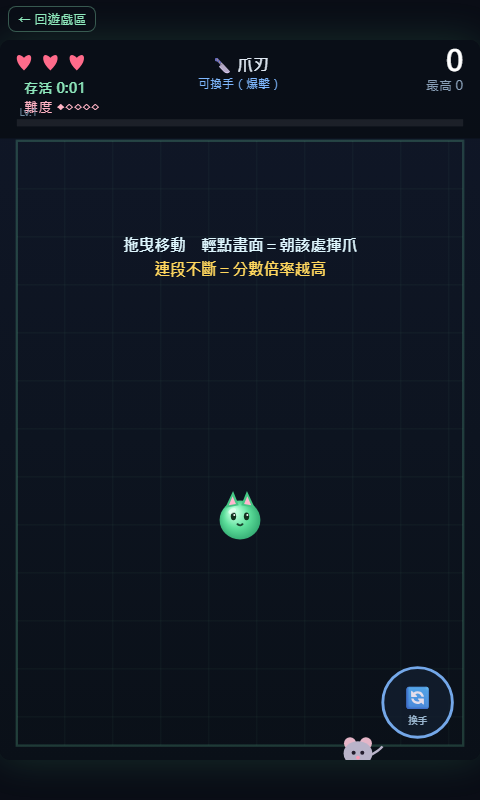
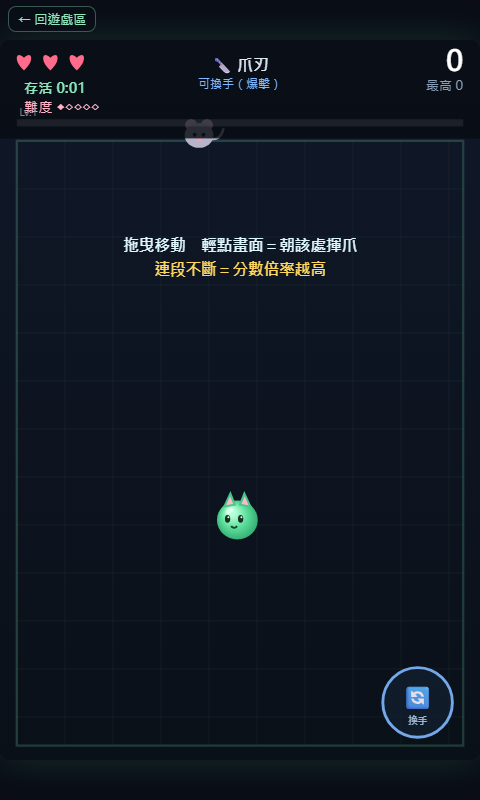
🔧 修復《喵刃連段祭》：[玩家留言] 還不錯 但揮爪動作太不明顯 很容易撞到 也沒什麼優勢 ➜ 在《喵刃

Changed region(s): [[0.4375, 0.5938, 0.5625, 0.6875], [0.375, 0.125, 0.4688, 0.1875], [0.7188, 0.9062, 0.7812, 0.9688]]

diff --git a/games/2026-08-07-001/index.html b/games/2026-08-07-001/index.html
@@ -276,7 +276,8 @@ function attack(){
     P.lunge=0.12;
     P.squash=1;
     var rg=P.st.range*(isCrit?1.25:1), ar=P.st.arc*(isCrit?1.25:1);
-    slashes.push({a:P.face,r:rg,arc:ar,l:0.19,m:0.19,tier:comboTier(),crit:isCrit});
+    // hi:1 ＝ 揮爪特效：爪痕軌跡＋命中判定範圍高亮（r/arc 與下方命中判定共用同一組數值，判定框不變）
+    slashes.push({a:P.face,r:rg,arc:ar,l:0.19,m:0.19,tier:comboTier(),crit:isCrit,hi:1});
     S.slash(combo);
     var got=false;
     for(var i=0;i<enemies.length;i++){
@@ -292,6 +293,7 @@ function attack(){
         damage(boss,P.st.mdmg*mulC,isCrit,bx/(bd||1),by/(bd||1)); got=true;
       }
     }
+    if(got) hitStop=Math.max(hitStop,0.05);   // 命中回饋 hit-stop（擊中音效由 damage 內 S.hit 播放）
     if(isCrit){ S.crit(); shake(7,0.22); flash('rgba(255,225,120,0.30)',0.12); hitStop=0.06;
                 ftext(P.x,P.y-34,'換手爆擊！','#ffd75e',17); P.critT=0; }
     if(!got){ /* 揮空也有手感，不加連段 */ }
@@ -299,7 +301,7 @@ function attack(){
     P.atkCd=P.st.cd*1.15;
     P.squash=0.7;
     S.slash(combo);
-    slashes.push({a:P.face,r:26,arc:0.9,l:0.12,m:0.12,tier:0,crit:isCrit});
+    slashes.push({a:P.face,r:26,arc:0.9,l:0.12,m:0.12,tier:0,crit:isCrit,hi:0});
     pbul.push({x:P.x+Math.cos(P.face)*16,y:P.y+Math.sin(P.face)*16,
                vx:Math.cos(P.face)*P.st.bspd,vy:Math.sin(P.face)*P.st.bspd,
                r:7,dmg:P.st.rdmg*mulC,pierce:P.st.pierce,crit:isCrit,hitIds:[],sp:0});
@@ -846,6 +848,15 @@ function drawSlashes(){
   for(var i=0;i<slashes.length;i++){
     var s=slashes[i], k=s.l/s.m;
     ctx.save(); ctx.translate(P.x,P.y);
+    // 命中判定範圍高亮：直接用判定同一組 s.r / s.arc 畫扇形（判定框本身不變）
+    if(s.hi){
+      ctx.fillStyle=s.crit?'rgba(255,220,120,'+(k*0.22)+')':'rgba(160,255,220,'+(k*0.18)+')';
+      ctx.beginPath(); ctx.moveTo(0,0);
+      ctx.arc(0,0,s.r,s.a-s.arc/2,s.a+s.arc/2);
+      ctx.closePath(); ctx.fill();
+      ctx.strokeStyle=s.crit?'rgba(255,220,120,'+(k*0.7)+')':'rgba(190,255,230,'+(k*0.55)+')';
+      ctx.lineWidth=1.5; ctx.stroke();
+    }
     var lay=1+s.tier;
     for(var j=0;j<lay;j++){
       var rr=s.r*(0.62+j*0.22)*(1.15-k*0.15);
@@ -857,7 +868,8 @@ function drawSlashes(){
       ctx.beginPath(); ctx.arc(0,0,rr,s.a-s.arc/2,s.a+s.arc/2); ctx.stroke();
     }
     // 爪痕線
-    ctx.strokeStyle='rgba(255,255,255,'+(k*0.6)+')'; ctx.lineWidth=2;
+    ctx.strokeStyle='rgba(255,255,255,'+(k*(s.hi?0.9:0.6))+')';
+    ctx.lineWidth=s.hi?3:2; ctx.lineCap='round';
     for(var m=-1;m<=1;m++){
       var a=s.a+m*s.arc*0.3;
       ctx.beginPath();

diff --git a/games.js b/games.js
@@ -956,7 +956,30 @@ const GAMES = [
     "genre": "動作（連段格鬥／閃避戰鬥）",
     "date": "2026-08-07",
     "desc": "點哪斬哪，連段不斷讓分數翻倍的史萊姆貓鼠潮戰",
-    "ai_score": 39
+    "ai_score": 39,
+    "bugs": [
+      {
+        "date": "2026-08-15",
+        "note": "[玩家留言] 還不錯 但揮爪動作太不明顯 很容易撞到 也沒什麼優勢 ➜ 在《喵刃連段祭》(id=2026-08-07-001) 揮爪動作加入明顯攻擊特效：揮爪瞬間顯示爪痕軌跡與命中判定範圍高亮（維持現有判定框不變），並在命中敵人時加入 hit-stop 約0.05秒與擊中音效，讓攻擊回饋清楚可辨。",
+        "status": "fixed",
+        "source": "web",
+        "fixed_at": "2026-08-15"
+      },
+      {
+        "date": "2026-08-15",
+        "note": "[玩家留言] 還不錯 但揮爪動作太不明顯 很容易撞到 也沒什麼優勢 ➜ 同列30：於揮爪加入爪痕軌跡特效、命中範圍高亮、hit-stop 與音效（與列30為同一問題，合併為單一工單執行，避免重複修改）。",
+        "status": "fixed",
+        "source": "web",
+        "fixed_at": "2026-08-15"
+      }
+    ],
+    "updated_at": "2026-08-15",
+    "changelog": [
+      {
+        "date": "2026-08-15",
+        "summary": "揮爪動作加特效跟震動感，打到人一看就知道，不會再傻傻撞上去了！"
+      }
+    ]
   },
   {
     "id": "2026-08-08-001",

diff --git a/index.html b/index.html
@@ -213,7 +213,7 @@
 
 <script src="sc_config.js"></script>
 <script src="stats.js"></script>
-<script src="games.js?v=9dabd005"></script>
+<script src="games.js?v=713bb9a5"></script>
 <script>
 const appStatus = document.getElementById("app-status");
 const app = document.getElementById("app");

diff --git a/factory/knowledge/learnings.md b/factory/knowledge/learnings.md
@@ -168,3 +168,13 @@
 - 2026-08-09 檢討會：2026-08-09 檢討會：med_session_sec 已被證實是髒指標——08-02-001 掛機式 983s 與新作 0s 同時存在，且 plays_reported 幾乎全 0；唯一可信的牽引力訊號是「同裝置重複回訪次數＋plays_reported＋web 留言」三者同時成立（目前只有喵骰連鎖陣 15 opens/7 devices/return 0.43/web 7 與喵格拆彈夜 return 0.67/plays 7 過關），排序與押注只准用這三項。
 - 2026-08-09 檢討會：2026-08-09 檢討會：新作 DOA 的根因鏈已完整——受眾池 28 台裝置封頂＋大廳零導流＝任何新題材期望值為 0，而「玩家留言→修復→web 7」是唯一被證實有效的價值鏈；因此下一款不該是新題材，而是把《喵骰連鎖陣》（唯一三項全過的款）做成有關卡目標、每日挑戰種子、連鎖里程碑的旗艦版，並以它作為大廳首屏唯一入口，用單款深度換回訪與留言。
 - 2026-08-12 AI 自評《貓客滿樓》36/50：入門與目標感做得紮實(免費首店+持續HUD)，但貓客耐性不可視加上節奏偏短、策略單一，讓中後期張力和深度打了折扣。；待改進：貓客沒有耐性視覺提示(頭上讀秒/漸變色)，玩家只能等發飆後才知道連擊要斷，削弱即時判斷與緊張感；整局僅100秒，還不到2分鐘就結束，加上連擊+升級雪球效應，後段收入暴衝讓尖峰時刻刺激感被稀釋，建議拉長節奏或加陡後期難度；最優策略永遠是「買最便宜空位、升級最貴已開店鋪」，缺乏分店差異化或隨機事件，多局後策略同質化降低耐玩度
+- 2026-08-12 檢討會：08-12-001《貓客滿樓》再度證明「會議凍結令＋blocker 檢查」都還沒落進程式碼——它在凍結期出貨、自評第一條（耐性不可視＝核心體驗缺陷）屬阻擋項卻照樣上架、上線後 3 opens/med 0s 完全複製 DOA 模式；08-09 說好的 factory 硬性 gate（無大廳交付檔即拒發新遊戲 ID）本週必須先交這個 gate 本身，不是再交一款遊戲。
+- 2026-08-12 檢討會：全站數據已進入「凍結態」：一週內 arcade 僅 228→231、喵骰連鎖陣 15 opens 零成長、玩家留言斷料達 19 天（最後一筆 07-24）——現在不是押注問題而是「量測管道死亡」問題；本週唯一可驗收交付＝大廳首屏直開喵骰＋一鍵評分入口實際上線，且驗收標準是「數據位移」（喵骰 opens 上升、新留言 ≥1），不是交付檔存在。
+- 2026-08-12 檢討會：依 08-09 訂的 48 小時自動下架規則，08-05～08-09 五款（全部 1 open/med 0s）加上 08-12-001 應立即執行下架清理——留著只會稀釋大廳曝光與作品清單可信度，53 款裡真正該活著的不到 10 款。
+- 2026-08-12 檢討會：《喵骰連鎖陣》旗艦深化（關卡目標＋每日挑戰種子＋連鎖里程碑）連續兩週零動工，而它仍是唯一同時通過「同裝置回訪 0.43＋plays 4＋web 7」三項可信訊號的作品；產能順位不變＝gate 腳本 → 大廳＋評分入口 → 喵骰旗艦版，在這三項完成前任何其他工作都算漏水。
+- 2026-08-12 檢討會：furball-blast 是唯一在零維護下仍自然微增的款（15→18 opens、6 次回報分數），證明「有明確分數回報迴圈的短局街機」有自然黏著；等大廳上線後應與喵骰並列為首屏第二卡，而非放著流失。
+- 2026-08-15 玩家留言《貓灶封潮夜》8/10：很好玩 ➜ 正面回饋缺乏細節時，先記錄不動刀，維持現有手感。
+- 2026-08-15 玩家留言《喵刃連段祭》6/10：還不錯 但揮爪動作太不明顯 很容易撞到 也沒什麼優勢 ➜ 攻擊動作必須有清楚的視覺與音效回饋，玩家才感受得到出招的存在與價值。
+- 2026-08-15 玩家留言《喵刃連段祭》6/10：還不錯 但揮爪動作太不明顯 很容易撞到 也沒什麼優勢 ➜ 多位玩家重複回報同一問題時應合併工單，且代表該問題感知度高、優先處理。
+- 2026-08-15 修復《喵刃連段祭》：[玩家留言] 還不錯 但揮爪動作太不明顯 很容易撞到 也沒什麼優勢 ➜ 在《喵刃連段祭》(id=2026-08-07-001) 揮爪動作加入明顯攻擊特效：揮爪瞬（AI 修復+品管通過）
+- 2026-08-15 修復《喵刃連段祭》：[玩家留言] 還不錯 但揮爪動作太不明顯 很容易撞到 也沒什麼優勢 ➜ 同列30：於揮爪加入爪痕軌跡特效、命中範圍高亮、hit-stop 與音效（與列30為同一（AI 修復+品管通過）

diff --git a/factory/knowledge/fun_principles.md b/factory/knowledge/fun_principles.md
@@ -121,3 +121,7 @@
 ## 檢討修訂（2026-08-09）
 - 修訂「衝分優先於守成」為「曝光優先於一切」：在導流通道（大廳首屏）修好前，任何內容產出的期望值視為 0，設計聖經的第一條應是「先確保作品能被打開，再談它好不好玩」。
 - 廢除以 med_session_sec 或 AI 自評作為任何排序、押注、上架依據的條文，改立「三訊號同時成立才算有牽引力：同裝置回訪≥2、plays_reported>0、有 web 留言」，並要求每款遊戲必須有明確結束狀態且結束時回報分數，否則其數據一律判定無效。
+
+## 檢討修訂（2026-08-12）
+- 「品管通過」與「修復完成」的定義改為結果導向：任何修復/交付要在一週內讓對應指標位移（留言＋1、med 變化、回訪變化）才算完工，否則自動退回待辦——過去五週「修完即結案」已證實產出大量無效工單。
+- 檢討會不再產生「決議文字」，只產生「腳本 diff」——凡是無法寫進 factory/rate 腳本強制執行的規則（凍結令、blocker gate、48h 下架）一律視為不存在；此結論已被連續九週的凍結令失效完整驗證。
